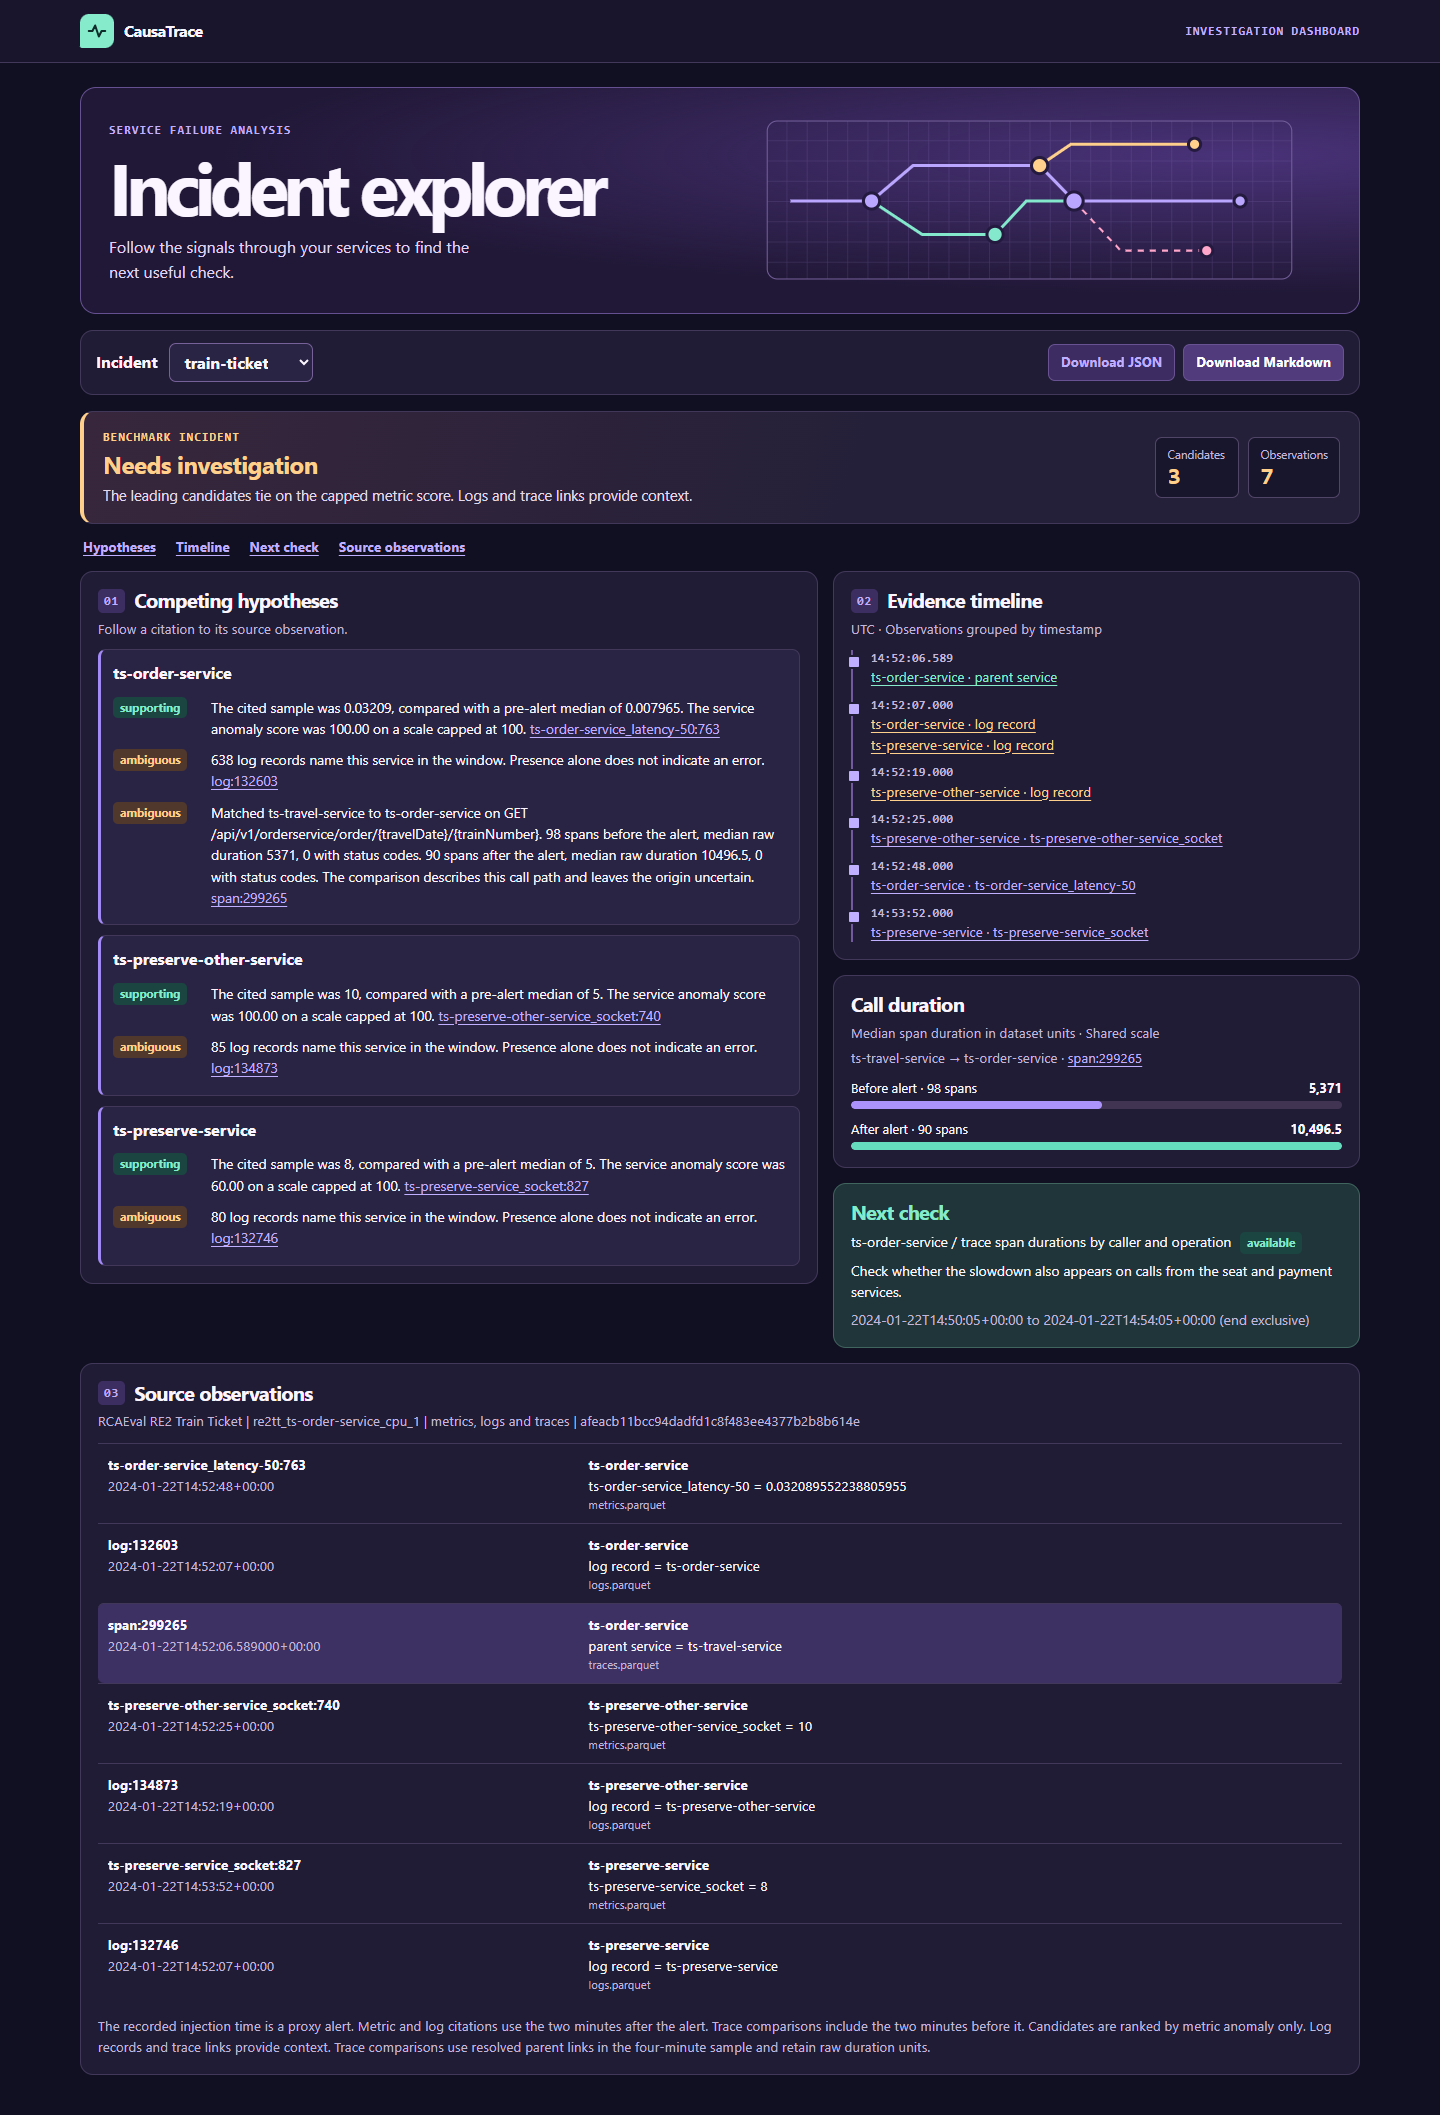
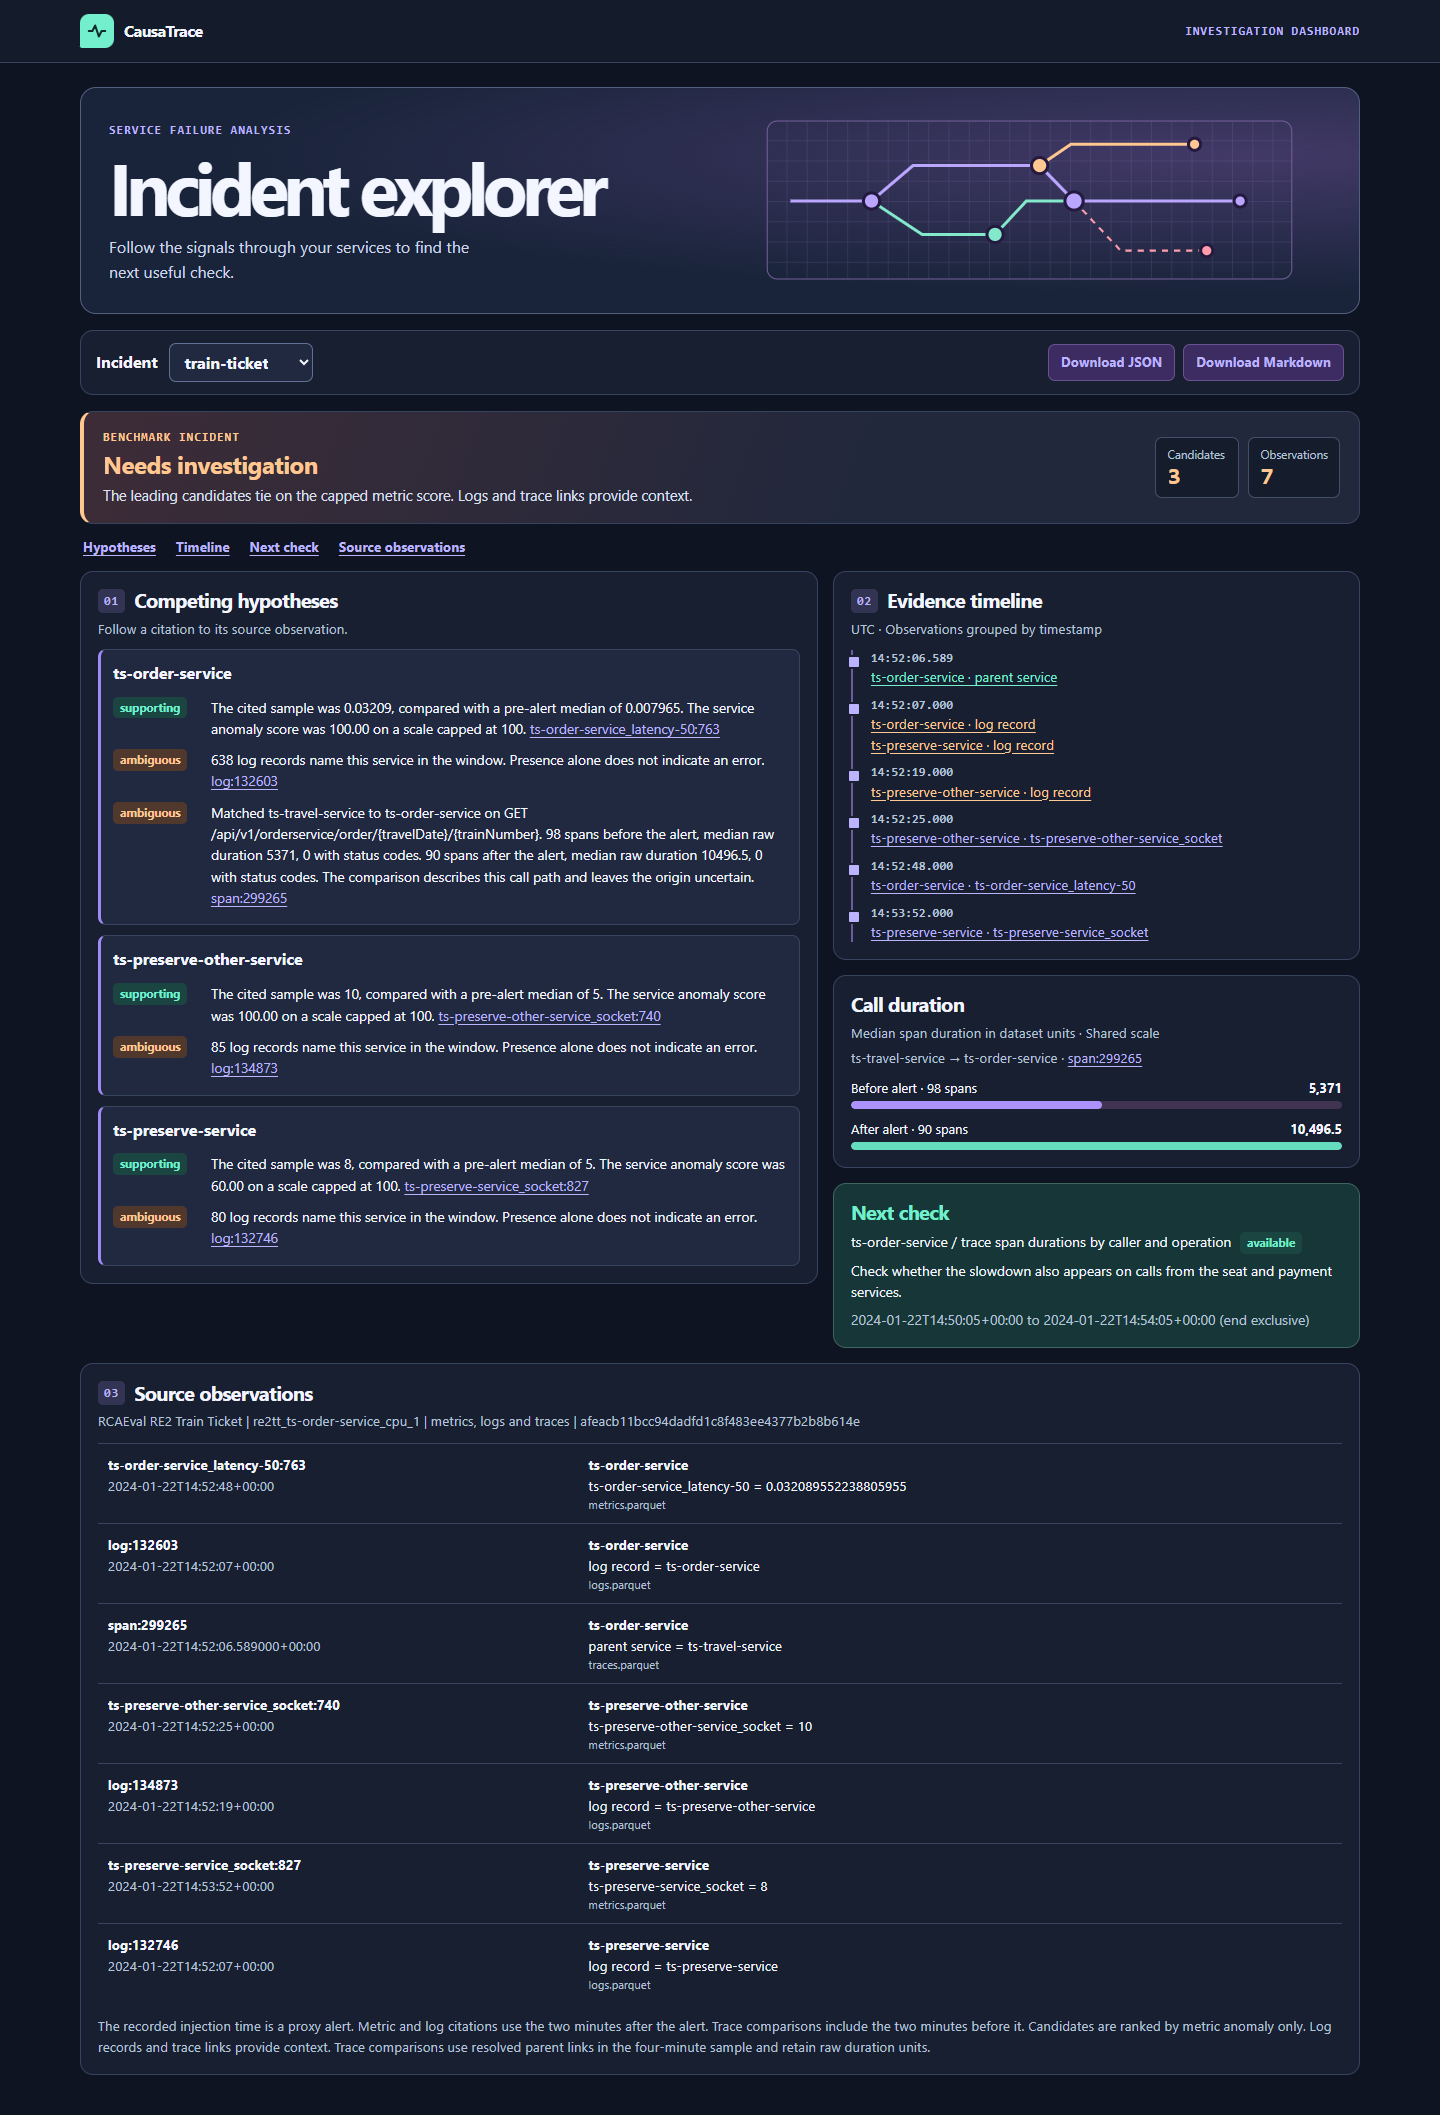
Add subtle trace motion and refresh dashboard colors

Changed region(s): [[0.0625, 0.7489, 0.9375, 0.8113], [0.8125, 0.156, 0.9375, 0.1872]]

diff --git a/app/index.html b/app/index.html
@@ -7,16 +7,16 @@
 <style>
 :root {
   color-scheme: dark;
-  --bg: #111022;
-  --surface: #201c36;
-  --surface-alt: #292344;
-  --line: #423859;
-  --ink: #faf5ff;
-  --muted: #c0b7d8;
-  --violet: #c0afff;
-  --mint: #85ebcb;
-  --amber: #ffd08b;
-  --rose: #ffa6ca;
+  --bg: #0e1421;
+  --surface: #181f31;
+  --surface-alt: #202940;
+  --line: #37445f;
+  --ink: #f3f6ff;
+  --muted: #b6c3d9;
+  --violet: #bcb3ff;
+  --mint: #74efcd;
+  --amber: #ffc892;
+  --rose: #ff9dac;
   font: 16px/1.55 system-ui, sans-serif;
   color: var(--ink);
   background: var(--bg);
@@ -31,33 +31,55 @@ a { color: var(--violet); text-underline-offset: .2em; }
 a:hover { color: white; }
 :focus-visible { outline: 3px solid var(--mint); outline-offset: 4px; }
 .shell { width: min(1280px, calc(100% - 64px)); margin-inline: auto; }
-.masthead { border-bottom: 1px solid var(--line); background: #18152c; }
+.masthead { border-bottom: 1px solid var(--line); background: #141b2b; }
 .topbar { display: flex; align-items: center; justify-content: space-between; gap: 12px; min-height: 62px; }
 .brand { display: flex; align-items: center; gap: 10px; font-weight: 780; letter-spacing: -.03em; }
 .mark { display: grid; place-items: center; width: 34px; height: 34px; border-radius: 9px 9px 9px 2px; background: var(--mint); color: #102c2a; }
 .mark svg { width: 22px; height: 22px; }
 .eyebrow, .section-index, .timeline time { font: 700 .72rem/1.4 ui-monospace, Consolas, monospace; letter-spacing: .11em; text-transform: uppercase; }
 .eyebrow { color: var(--violet); }
-.hero { position: relative; isolation: isolate; overflow: hidden; display: grid; grid-template-columns: minmax(0, 1fr) minmax(220px, 1fr); align-items: center; gap: 16px; margin: 24px 0 16px; padding: 28px; border-radius: 16px; border: 1px solid #655191; background: radial-gradient(ellipse at 90% 30%, #493278, transparent 62%), #211837; }
+.hero { position: relative; isolation: isolate; overflow: hidden; display: grid; grid-template-columns: minmax(0, 1fr) minmax(220px, 1fr); align-items: center; gap: 16px; margin: 24px 0 16px; padding: 28px; border-radius: 16px; border: 1px solid #526080; background: radial-gradient(ellipse at 90% 30%, #423967, transparent 62%), #19243a; }
 .hero h1 { font-size: clamp(2.5rem, 5.5vw, 4.55rem); line-height: .98; letter-spacing: -.075em; margin: 9px 0 14px; }
-.hero p { color: #e0d5f7; max-width: 42ch; }
+.hero p { color: #ccd7ec; max-width: 42ch; }
 .trace-art { width: 100%; max-height: 160px; justify-self: end; }
+.trace-signal {
+  stroke: var(--mint);
+  stroke-width: 4;
+  stroke-linecap: round;
+  stroke-dasharray: .075 .925;
+  stroke-dashoffset: 1;
+  opacity: 0;
+}
+@media (prefers-reduced-motion: no-preference) {
+  .trace-signal { animation: trace-sweep 2.8s ease-in-out 2; }
+  #investigation:not([hidden]) { animation: incident-in 240ms ease-out both; }
+  .button, .candidate, #observations li { transition: background-color 150ms ease, border-color 150ms ease; }
+}
+@keyframes trace-sweep {
+  0% { stroke-dashoffset: 1; opacity: 0; }
+  15%, 75% { opacity: 1; }
+  100% { stroke-dashoffset: 0; opacity: 0; }
+}
+@keyframes incident-in {
+  from { opacity: .45; transform: translateY(4px); }
+  to { opacity: 1; transform: translateY(0); }
+}
 main { padding-bottom: 40px; }
 .toolbar, .panel, .status-panel { background: var(--surface); border: 1px solid var(--line); border-radius: 13px; }
 .toolbar { padding: 12px 15px; display: flex; justify-content: space-between; align-items: center; gap: 12px; flex-wrap: wrap; }
 .field { display: flex; gap: 12px; align-items: center; font-weight: 700; }
-select { font: inherit; color: var(--ink); background: var(--surface-alt); border: 1px solid #766198; border-radius: 7px; padding: 7px 28px 7px 10px; max-width: 100%; }
+select { font: inherit; color: var(--ink); background: var(--surface-alt); border: 1px solid #5f7194; border-radius: 7px; padding: 7px 28px 7px 10px; max-width: 100%; }
 #exports { display: flex; gap: 8px; flex-wrap: wrap; }
 .button { background: #3c2c61; padding: 7px 12px; border: 1px solid #695292; border-radius: 7px; font-size: .83rem; font-weight: 730; text-decoration: none; }
 .button:hover { background: #513b7d; }
 #message:not(:empty) { margin-top: 16px; color: var(--muted); }
-.status-panel { --accent: var(--amber); display: grid; grid-template-columns: minmax(0, 1fr) auto; align-items: center; gap: 16px; margin-top: 16px; padding: 17px 19px; border-left: 4px solid var(--accent); background: linear-gradient(110deg, #38273c, #252039 60%); }
-.status-panel[data-leading="true"] { --accent: var(--mint); background: linear-gradient(110deg, #1d3a3c, #252039 60%); }
+.status-panel { --accent: var(--amber); display: grid; grid-template-columns: minmax(0, 1fr) auto; align-items: center; gap: 16px; margin-top: 16px; padding: 17px 19px; border-left: 4px solid var(--accent); background: linear-gradient(110deg, #3d2c37, #22283c 60%); }
+.status-panel[data-leading="true"] { --accent: var(--mint); background: linear-gradient(110deg, #1b3b40, #22283c 60%); }
 .status-panel .eyebrow, .status-panel h2 { color: var(--accent); }
 .status-panel h2 { margin-top: 5px; font-size: 1.5rem; }
-.status-panel #reason { color: #e3d9eb; margin-top: 5px; font-size: .91rem; }
+.status-panel #reason { color: #d9e0f2; margin-top: 5px; font-size: .91rem; }
 .stats { display: flex; gap: 9px; margin: 0; }
-.stats div { min-width: 84px; padding: 7px 11px; background: #18162c; border: 1px solid #514567; border-radius: 7px; }
+.stats div { min-width: 84px; padding: 7px 11px; background: #151d2d; border: 1px solid #424f6b; border-radius: 7px; }
 .stats dt { color: var(--muted); font-size: .73rem; }
 .stats dd { margin: 0; color: var(--accent); font: 700 1.5rem/1.1 ui-monospace, Consolas, monospace; }
 .jump-nav { display: flex; flex-wrap: wrap; gap: 5px 20px; padding: 13px 3px 0; }
@@ -66,9 +88,10 @@ select { font: inherit; color: var(--ink); background: var(--surface-alt); borde
 .panel { padding: 17px; min-width: 0; scroll-margin-top: 12px; }
 .panel + .panel { margin-top: 15px; }
 .panel-heading { display: flex; align-items: center; gap: 9px; }
-.section-index { color: var(--violet); background: #3d2e62; border-radius: 5px; padding: 4px 6px; }
+.section-index { color: var(--violet); background: #333354; border-radius: 5px; padding: 4px 6px; }
 .section-caption { color: var(--muted); font-size: .84rem; margin-top: 5px; }
 .candidate { border: 1px solid var(--line); border-left: 3px solid #a38af7; border-radius: 8px; margin-top: 10px; padding: 11px 12px; background: var(--surface-alt); }
+.candidate:focus-within, .candidate:hover { background: #26324b; border-color: #6e77a1; }
 .evidence-list { list-style: none; padding: 0; margin: 6px 0 0; }
 .evidence-list li { display: grid; grid-template-columns: minmax(90px, auto) minmax(0, 1fr); align-items: start; gap: 8px; padding-block: 5px; font-size: .86rem; overflow-wrap: anywhere; }
 .tag { border-radius: 5px; padding: 2px 7px; font-size: .72rem; font-weight: 760; background: #41326a; color: var(--violet); width: fit-content; }
@@ -87,7 +110,7 @@ select { font: inherit; color: var(--ink); background: var(--surface-alt); borde
 .bar-track { height: 8px; border-radius: 4px; background: #403452; overflow: hidden; margin-top: 3px; }
 .bar-fill { display: block; height: 100%; background: #ac93fb; border-radius: inherit; }
 .bar-fill.after { background: #66dcbf; }
-#next { background: #203539; border-color: #40645e; overflow-wrap: anywhere; }
+#next { background: #173637; border-color: #40645e; overflow-wrap: anywhere; }
 #next h2 { color: var(--mint); }
 #next p { margin-top: 6px; font-size: .87rem; }
 #next .tag { display: inline-block; margin-left: 5px; }
@@ -132,13 +155,14 @@ select { font: inherit; color: var(--ink); background: var(--surface-alt); borde
       <rect x="1" y="1" width="518" height="156" rx="10" fill="url(#trace-grid)" stroke="#74609b"/>
       <path d="M24 80H104L145 45H270L304 80H468" stroke="#bba6ff" stroke-width="3"/>
       <path d="M104 80L154 113H226L257 80H304" stroke="#83e8cc" stroke-width="3"/>
-      <path d="M270 45L301 24H423" stroke="#ffd08b" stroke-width="3"/>
-      <path d="M304 80L350 129H435" stroke="#ffa6ca" stroke-width="2" stroke-dasharray="6 6"/>
+      <path d="M270 45L301 24H423" stroke="#ffc892" stroke-width="3"/>
+      <path d="M304 80L350 129H435" stroke="#ff9dac" stroke-width="2" stroke-dasharray="6 6"/>
+      <path class="trace-signal" d="M24 80H104L154 113H226L257 80H468" pathLength="1"/>
       <g stroke="#241a40" stroke-width="3">
-        <circle cx="104" cy="80" r="8" fill="#bba6ff"/><circle cx="270" cy="45" r="8" fill="#ffd08b"/>
+        <circle cx="104" cy="80" r="8" fill="#bba6ff"/><circle cx="270" cy="45" r="8" fill="#ffc892"/>
         <circle cx="226" cy="113" r="8" fill="#83e8cc"/><circle cx="304" cy="80" r="9" fill="#bba6ff"/>
-        <circle cx="435" cy="129" r="6" fill="#ffa6ca"/><circle cx="468" cy="80" r="6" fill="#bba6ff"/>
-        <circle cx="423" cy="24" r="6" fill="#ffd08b"/>
+        <circle cx="435" cy="129" r="6" fill="#ff9dac"/><circle cx="468" cy="80" r="6" fill="#bba6ff"/>
+        <circle cx="423" cy="24" r="6" fill="#ffc892"/>
       </g>
     </svg>
   </div>
